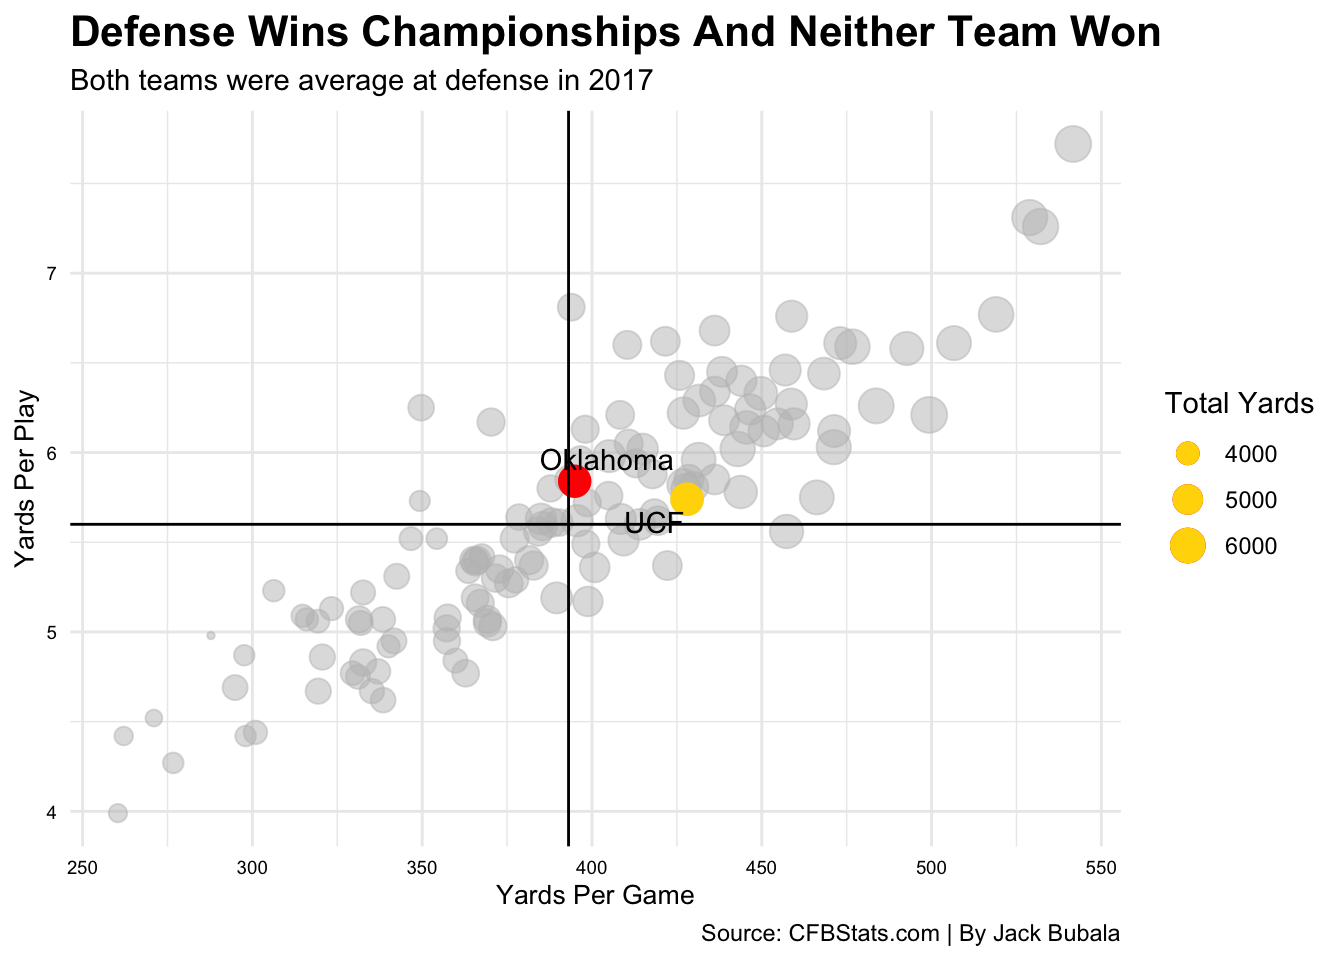
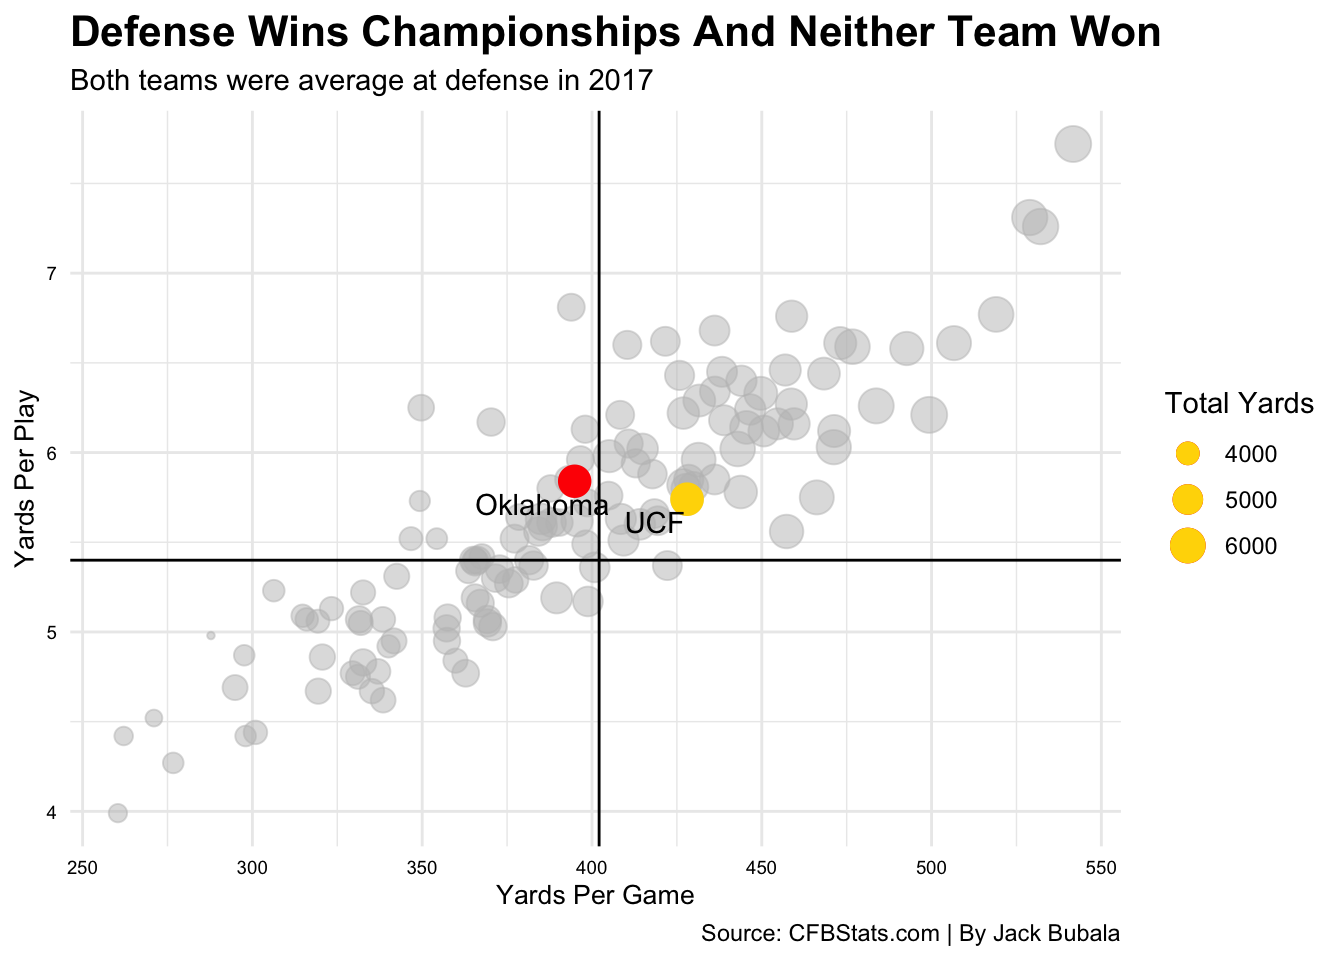
label commit 5

Changed region(s): [[0.0625, 0.4688, 0.8125, 0.5938]]

diff --git a/2021/04/25/we-want-ucf/index.html b/2021/04/25/we-want-ucf/index.html
@@ -272,7 +272,7 @@ ggplot() +
   geom_point(data=oklahomasecondyeard, aes(x=`Passing Yards`, y=`Rushing Yards`), color=&quot;red&quot;) +
   geom_point(data=notredamed, aes(x=`Passing Yards`, y=`Rushing Yards`), color=&quot;navy&quot;) +
   geom_hline(yintercept=2146.9, color=&quot;black&quot;) +
-  geom_vline(xintercept=2859.0, color=&quot;black&quot;) +
+  geom_vline(xintercept=2950.0, color=&quot;black&quot;) +
   geom_text_repel(data=ucfsecondyeard, aes(x=`Passing Yards`, y=`Rushing Yards`, label=Team)) +
   geom_text_repel(data=oklahomasecondyeard, aes(x=`Passing Yards`, y=`Rushing Yards`, label=Team)) +
   geom_text_repel(data=notredamed, aes(x=`Passing Yards`, y=`Rushing Yards`, label=Team)) +
@@ -336,8 +336,8 @@ ggplot()+
     data = ucfd,
     aes(x=`Yards Per Game`, y=`Yards Per Play`, size=`Total Yards`),
     color=&quot;gold&quot;)+
-  geom_vline(xintercept=393.1)+
-  geom_hline(yintercept=5.6)+
+  geom_vline(xintercept=402.1)+
+  geom_hline(yintercept=5.4)+
   geom_text_repel(
     data=oud,
     aes(x=`Yards Per Game`, y=`Yards Per Play`, label=Team))+
